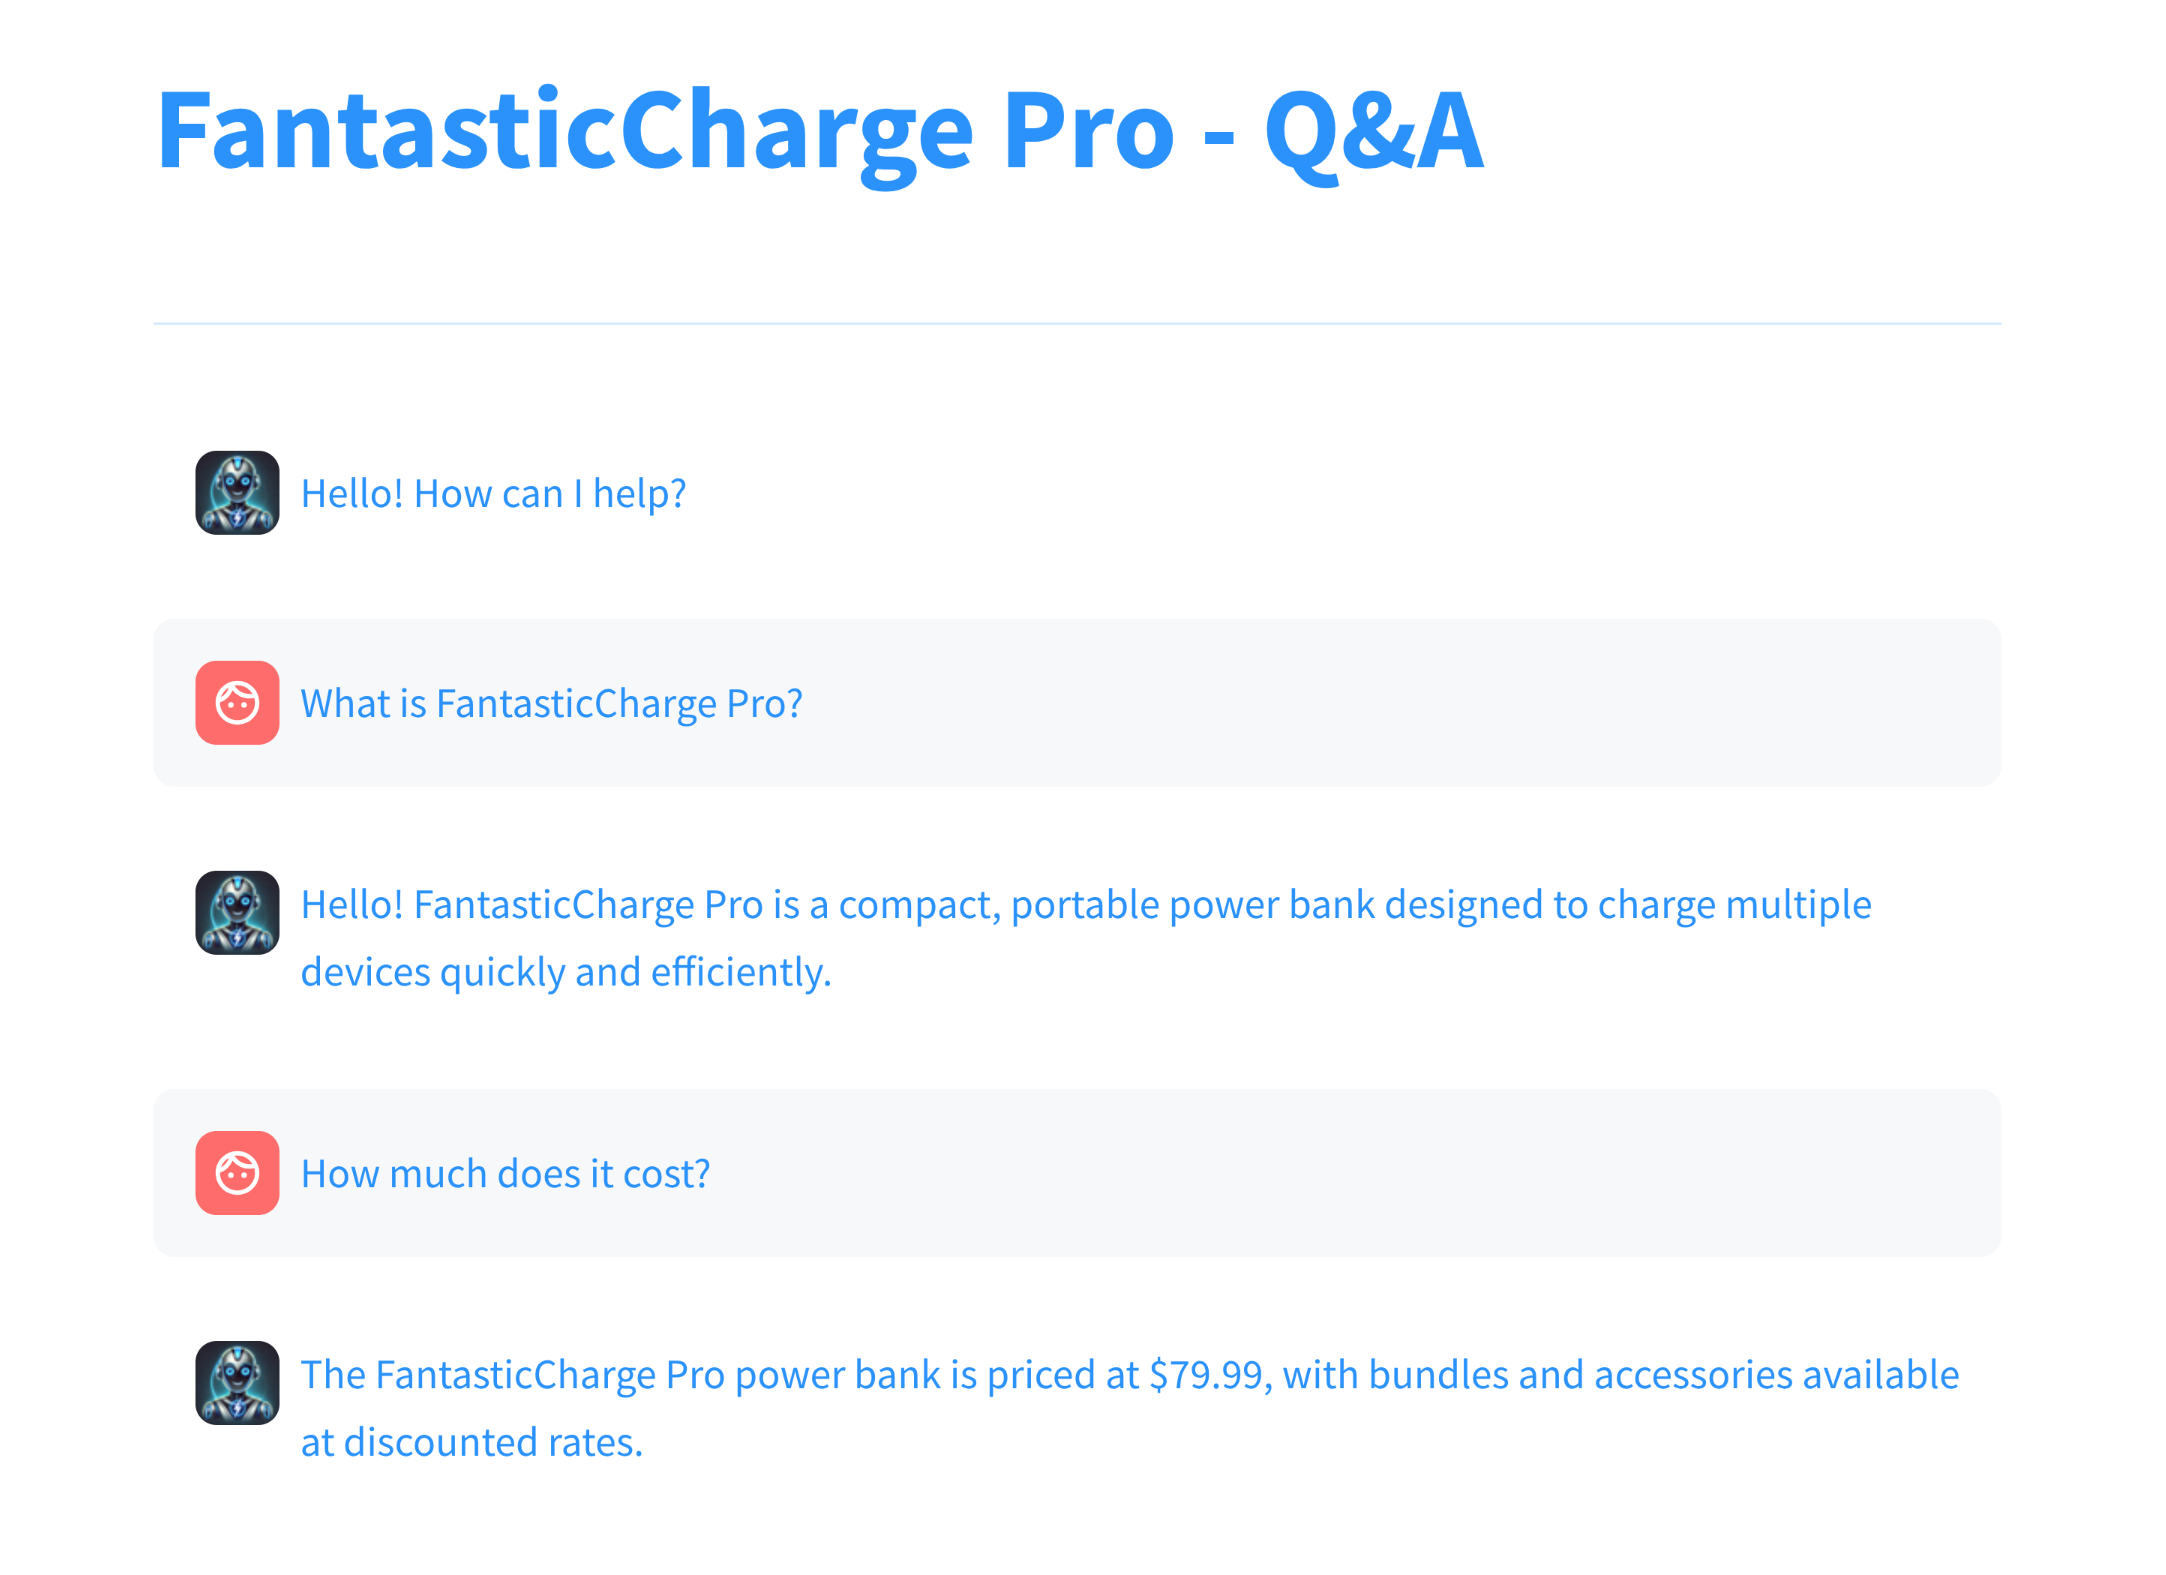
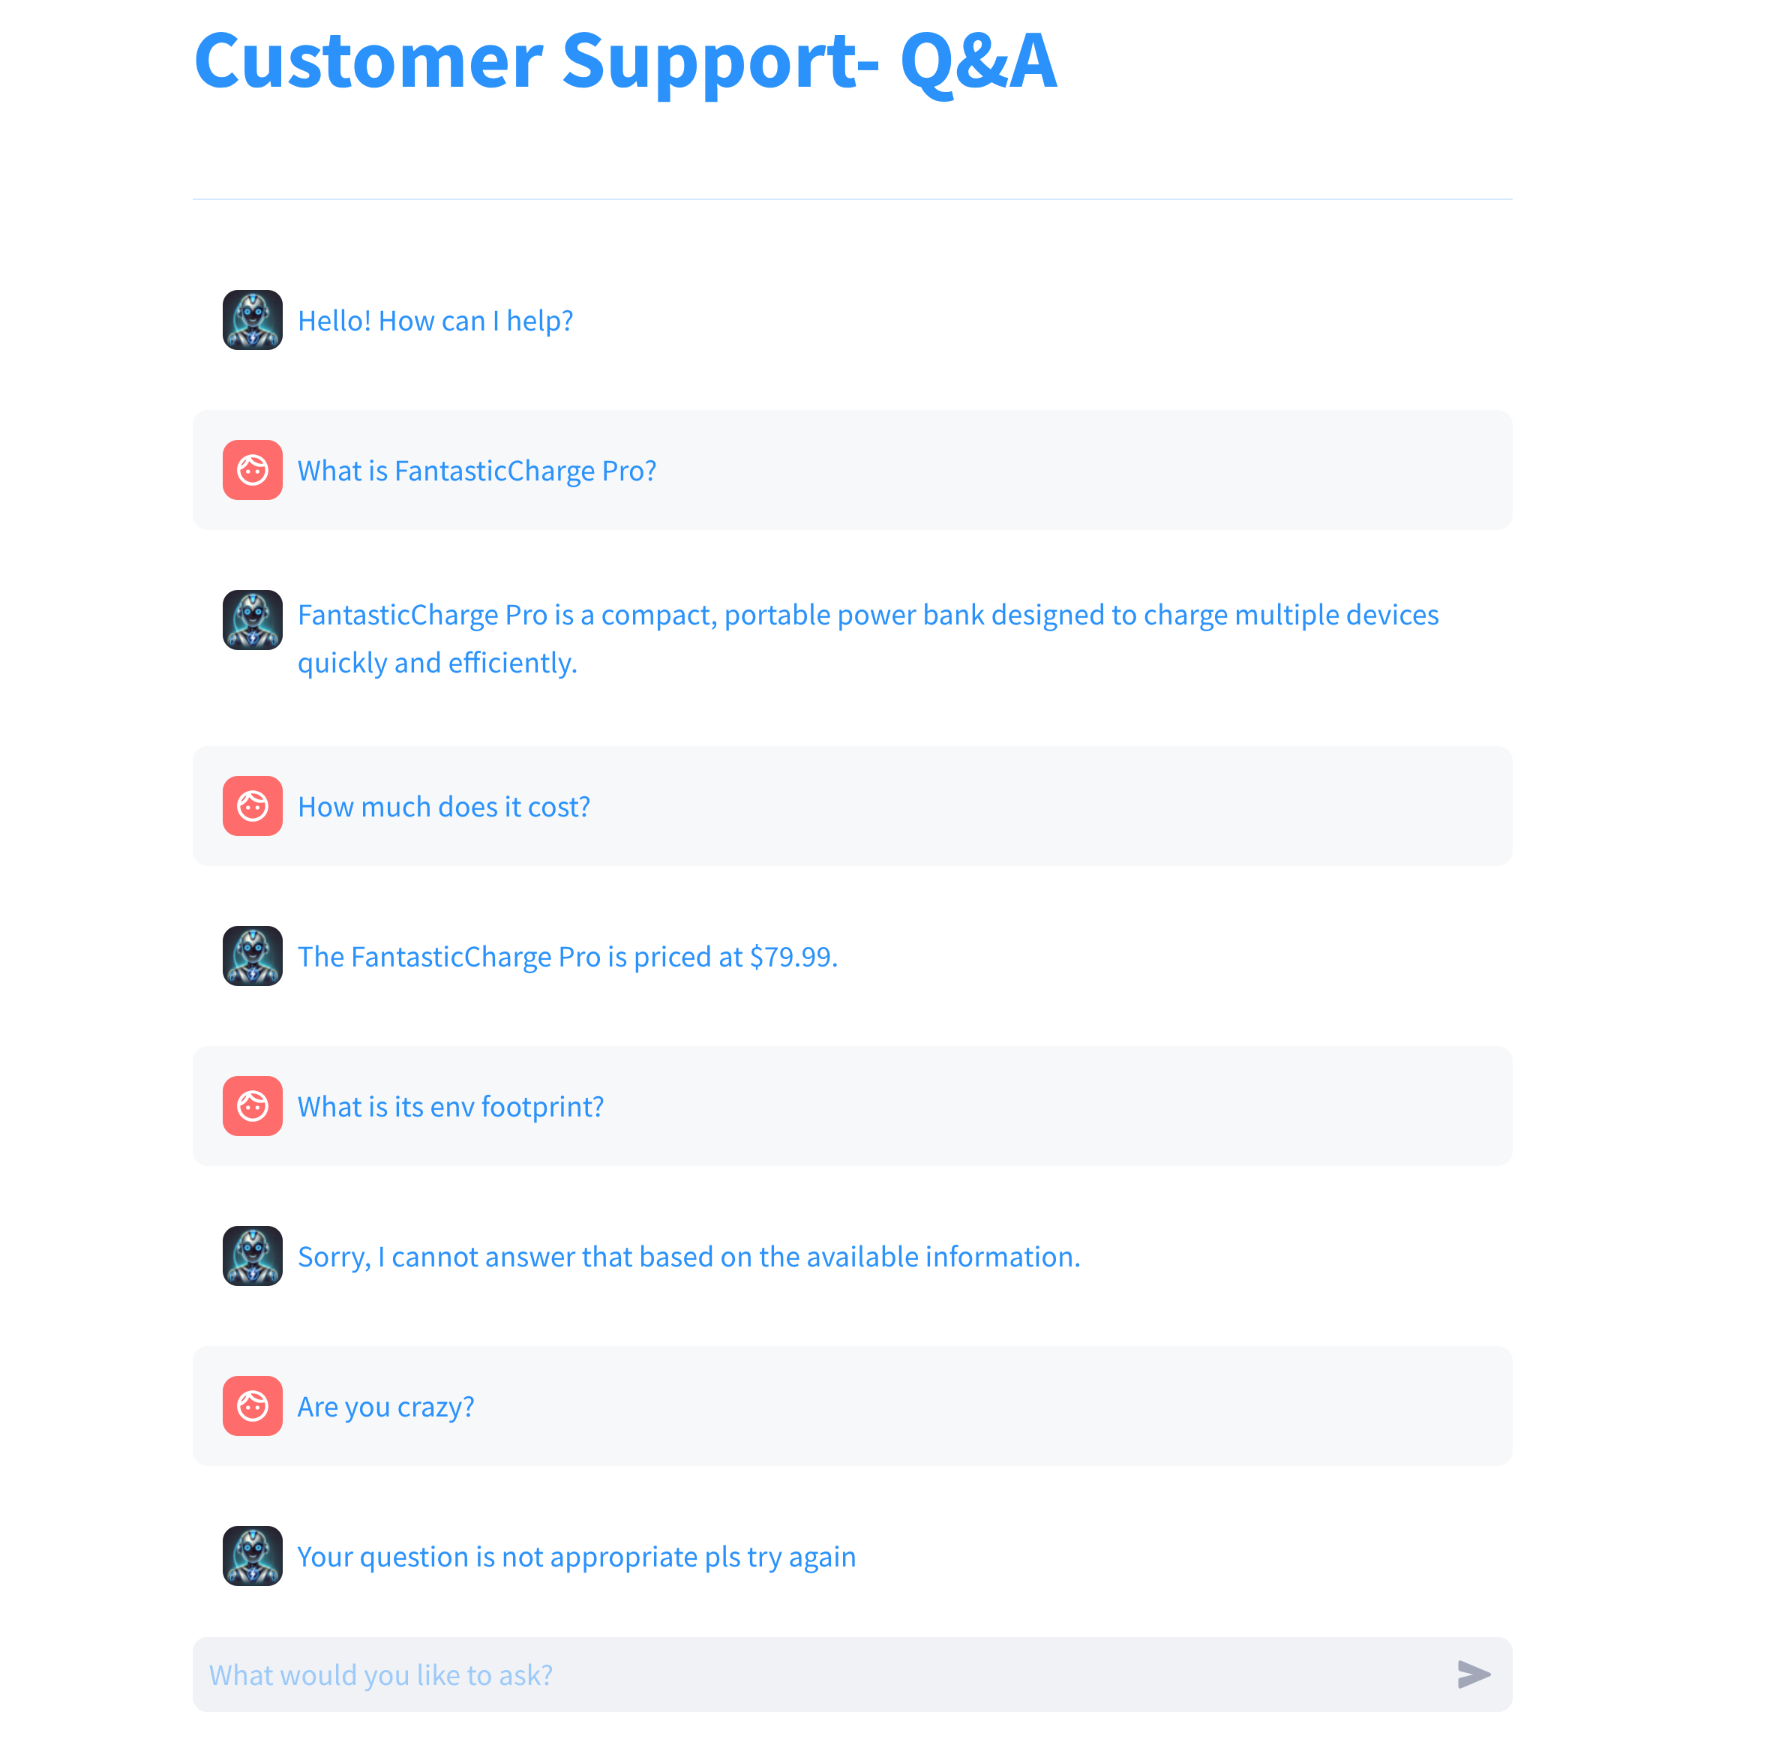
fixes

diff --git a/src/qa/qa_st.py b/src/qa/qa_st.py
@@ -13,6 +13,7 @@ from langchain_chroma import Chroma
 from PIL import Image
 from opik import track, opik_context
 import opik
+import re
 
 # from sentence_transformers import CrossEncoder
 opik.configure(use_local=True, automatic_approvals=True)
@@ -21,25 +22,41 @@ if "messages" not in st.session_state:
     st.session_state.messages = []
 
 sp = """
-You are a helpful, polite, and knowledgeable customer support assistant.
+You are a helpful, polite, and knowledgeable customer support assistant for a company that sells chargers and other electronic devices.
 
-You are answering customer queries about our company's products and services. Your goals are:
+Your job is to answer customer questions using only the information provided in the retrieved context and any past user question and answer. Do not invent information.
 
-Provide accurate, concise, and friendly responses.
+Your objectives:
+- Provide clear, accurate, and friendly responses.
+- Ask clarifying questions if the user’s request is vague or missing key details.
+- Stick strictly to known facts. Never speculate or make up information.
+- If the request is outside your scope (e.g. refunds, legal issues), politely direct the user to human support.
 
-If information is missing or unclear, ask clarifying questions.
+For escalation or human support, refer customers to: **support@chargepro.com**
 
-Stick to known facts. If unsure, say: "I'm not certain, but I'll note this for follow-up."
+Tone guidelines:
+- Be friendly, professional, and empathetic.
+- Match the customer's tone, but never be sarcastic or emotional.
+- Prioritize helpfulness, clarity, and honesty.
 
-For requests outside your scope (e.g., refunds, legal issues), politely redirect the user to human support. 
 
-Include always the follwoing email support@chargepro.com when redirecting the user.
+If the answer is not found in the context or previous interactions, respond with:
+"Sorry, I cannot answer that based on the available information."
 
-Tone: Friendly, professional, and empathetic. Always match the customer's tone, but never be sarcastic or emotional.
+Use the following context and the user's question to answer, the context is not provided by the user:
 
-Never make up information. Do not speculate.
+Context:
+---
+Q:
+A:
+Q:
+A:
+...
+---
 
-If the question is unrelated to customer support or off-topic, gently guide the user back to relevant topics."""
+User question:
+{{user_question}}
+"""
 
 if "qas" not in st.session_state: 
     st.session_state.qas = [{"role": "system", "content": sp}]
@@ -86,7 +103,7 @@ def main():
         persist_directory=db_path,
     )
 
-    st.title("FantasticCharge Pro - Q&A")
+    st.title("Customer Support- Q&A")
     st.divider()
     path_logo = os.path.dirname(os.path.abspath(__file__)) + "/logo.png"
     im = Image.open(path_logo)
@@ -95,7 +112,7 @@ def main():
     with st.chat_message("assistant", avatar=im):
         st.write("Hello! How can I help?")
 
-    question = st.chat_input("Ask a question")
+    question = st.chat_input("What would you like to ask?")
 
     for msg in st.session_state.messages:
         if "user" in msg:
@@ -117,7 +134,7 @@ def main():
 
             if not empty:
                 docs = vector_store.similarity_search_with_relevance_scores(
-                    f"{question}", k=2, score_threshold=0.4
+                    f"{question}", k=5, score_threshold=0.4
                 )
                 for doc in docs:
                     logger.debug(f"Chunk Score: {doc[1]}\n")
@@ -149,11 +166,14 @@ def main():
             print(qas)
 
             if response != "Your question is not appropriate pls try again":
-                if retrieved_context == "":
-                    response = "Question does not seem to be relative to the domain of this application. Please try again!"
-                else:   
+                # if retrieved_context == "":
+                #     response = "Question does not seem to be relative to the domain of this application. Please try again!"
+                # else:   
                     print(llama_prompt + "\n")
                     #output = ollama.chat(model="llama3.2:3b", keep_alive=-1, messages=qas)
+                    print("QAS passed to LLM:")
+                    for msg in qas:
+                        print(msg)
                     output = ollama_llm_call(qas)
                     response = output["message"]["content"]
 
@@ -162,8 +182,8 @@ def main():
             with st.chat_message("assistant", avatar=im):
                 out = str(response)
                 st.write(out)
-
-            st.session_state.qas.append( {'role': 'user', 'content': llama_prompt})
+            
+            st.session_state.qas.append( {'role': 'user', 'content': question})
             st.session_state.qas.append( {'role': 'assistant', 'content': response})
             a = {"user": question, "assistant": str(response)}
             st.session_state.messages.append(a)
@@ -172,7 +192,7 @@ def main():
 @track(tags=['ollama', 'python-library'])
 def ollama_llm_call(msgs):
     # Create the Ollama model
-    response = ollama.chat(model="llama3.2:3b", keep_alive=-1, messages=msgs)
+    response = ollama.chat(model="llama3.2:3b", keep_alive=-1, messages=msgs, options={"temperature": 0.0, "seed": 1234, "top_k":1, "num_predict": 400})
 
     opik_context.update_current_span(
         # https://github.com/ollama/ollama/blob/main/docs/api.md
@@ -215,7 +235,6 @@ def format_prompt(question, context):
     Args:
         question (str): the question passed by the user
         context (str): the context retrieved via RAG.
-        history (str): the history of the current session
 
     Returns:
         str: formatted prompt.
@@ -223,8 +242,54 @@ def format_prompt(question, context):
 
     inject = ""
     if context != "":
-        inject = f"the context: {context}"
-    return f"Given {inject}. Answer the question: {question}. Be concise."
+        inject = f"{clean_qa_style_context(context)}"
+    return f"""
+    Context:
+    ---
+    {inject}
+    ---
+    User question:
+    {question}
+    """
+
+def clean_qa_style_context(raw_context: str) -> str:
+    """
+    Cleans a Q&A-style context string and formats it as:
+
+    Context:
+    ---
+    Q: <question>
+    A: <answer>
+    ...
+    ---
+
+    Args:
+        raw_context (str): Context with Q&A pairs separated by '---'.
+
+    Returns:
+        str: Formatted and cleaned Q&A context.
+    """
+    qa_blocks = raw_context.strip().split("---")
+    formatted_pairs = []
+
+    for block in qa_blocks:
+        lines = block.strip().split("\n")
+        if len(lines) < 2:
+            continue  # skip if not a proper Q&A pair
+
+        # First non-empty line as question
+        question = next((l.strip() for l in lines if l.strip()), "")
+        # All subsequent non-question lines as answer
+        answer_lines = [
+            l.strip() for l in lines[1:] 
+            if l.strip() and not re.match(r"^(what|how|when|why|does|do|is|are|can|should|who|where|which|would|will|did)\b.*\?\s*$", l.strip().lower())
+        ]
+
+        if question and answer_lines:
+            answer = " ".join(answer_lines)
+            formatted_pairs.append(f"Q: {question}\nA: {answer}")
+
+    return "\n".join(formatted_pairs)
 
 
 if __name__ == "__main__":

diff --git a/README.md b/README.md
@@ -58,6 +58,4 @@ Access the app at: http://localhost:8501
 
 ![ui](./ui.png)
 
-![offtopic](./offtopic.png)
-
 
